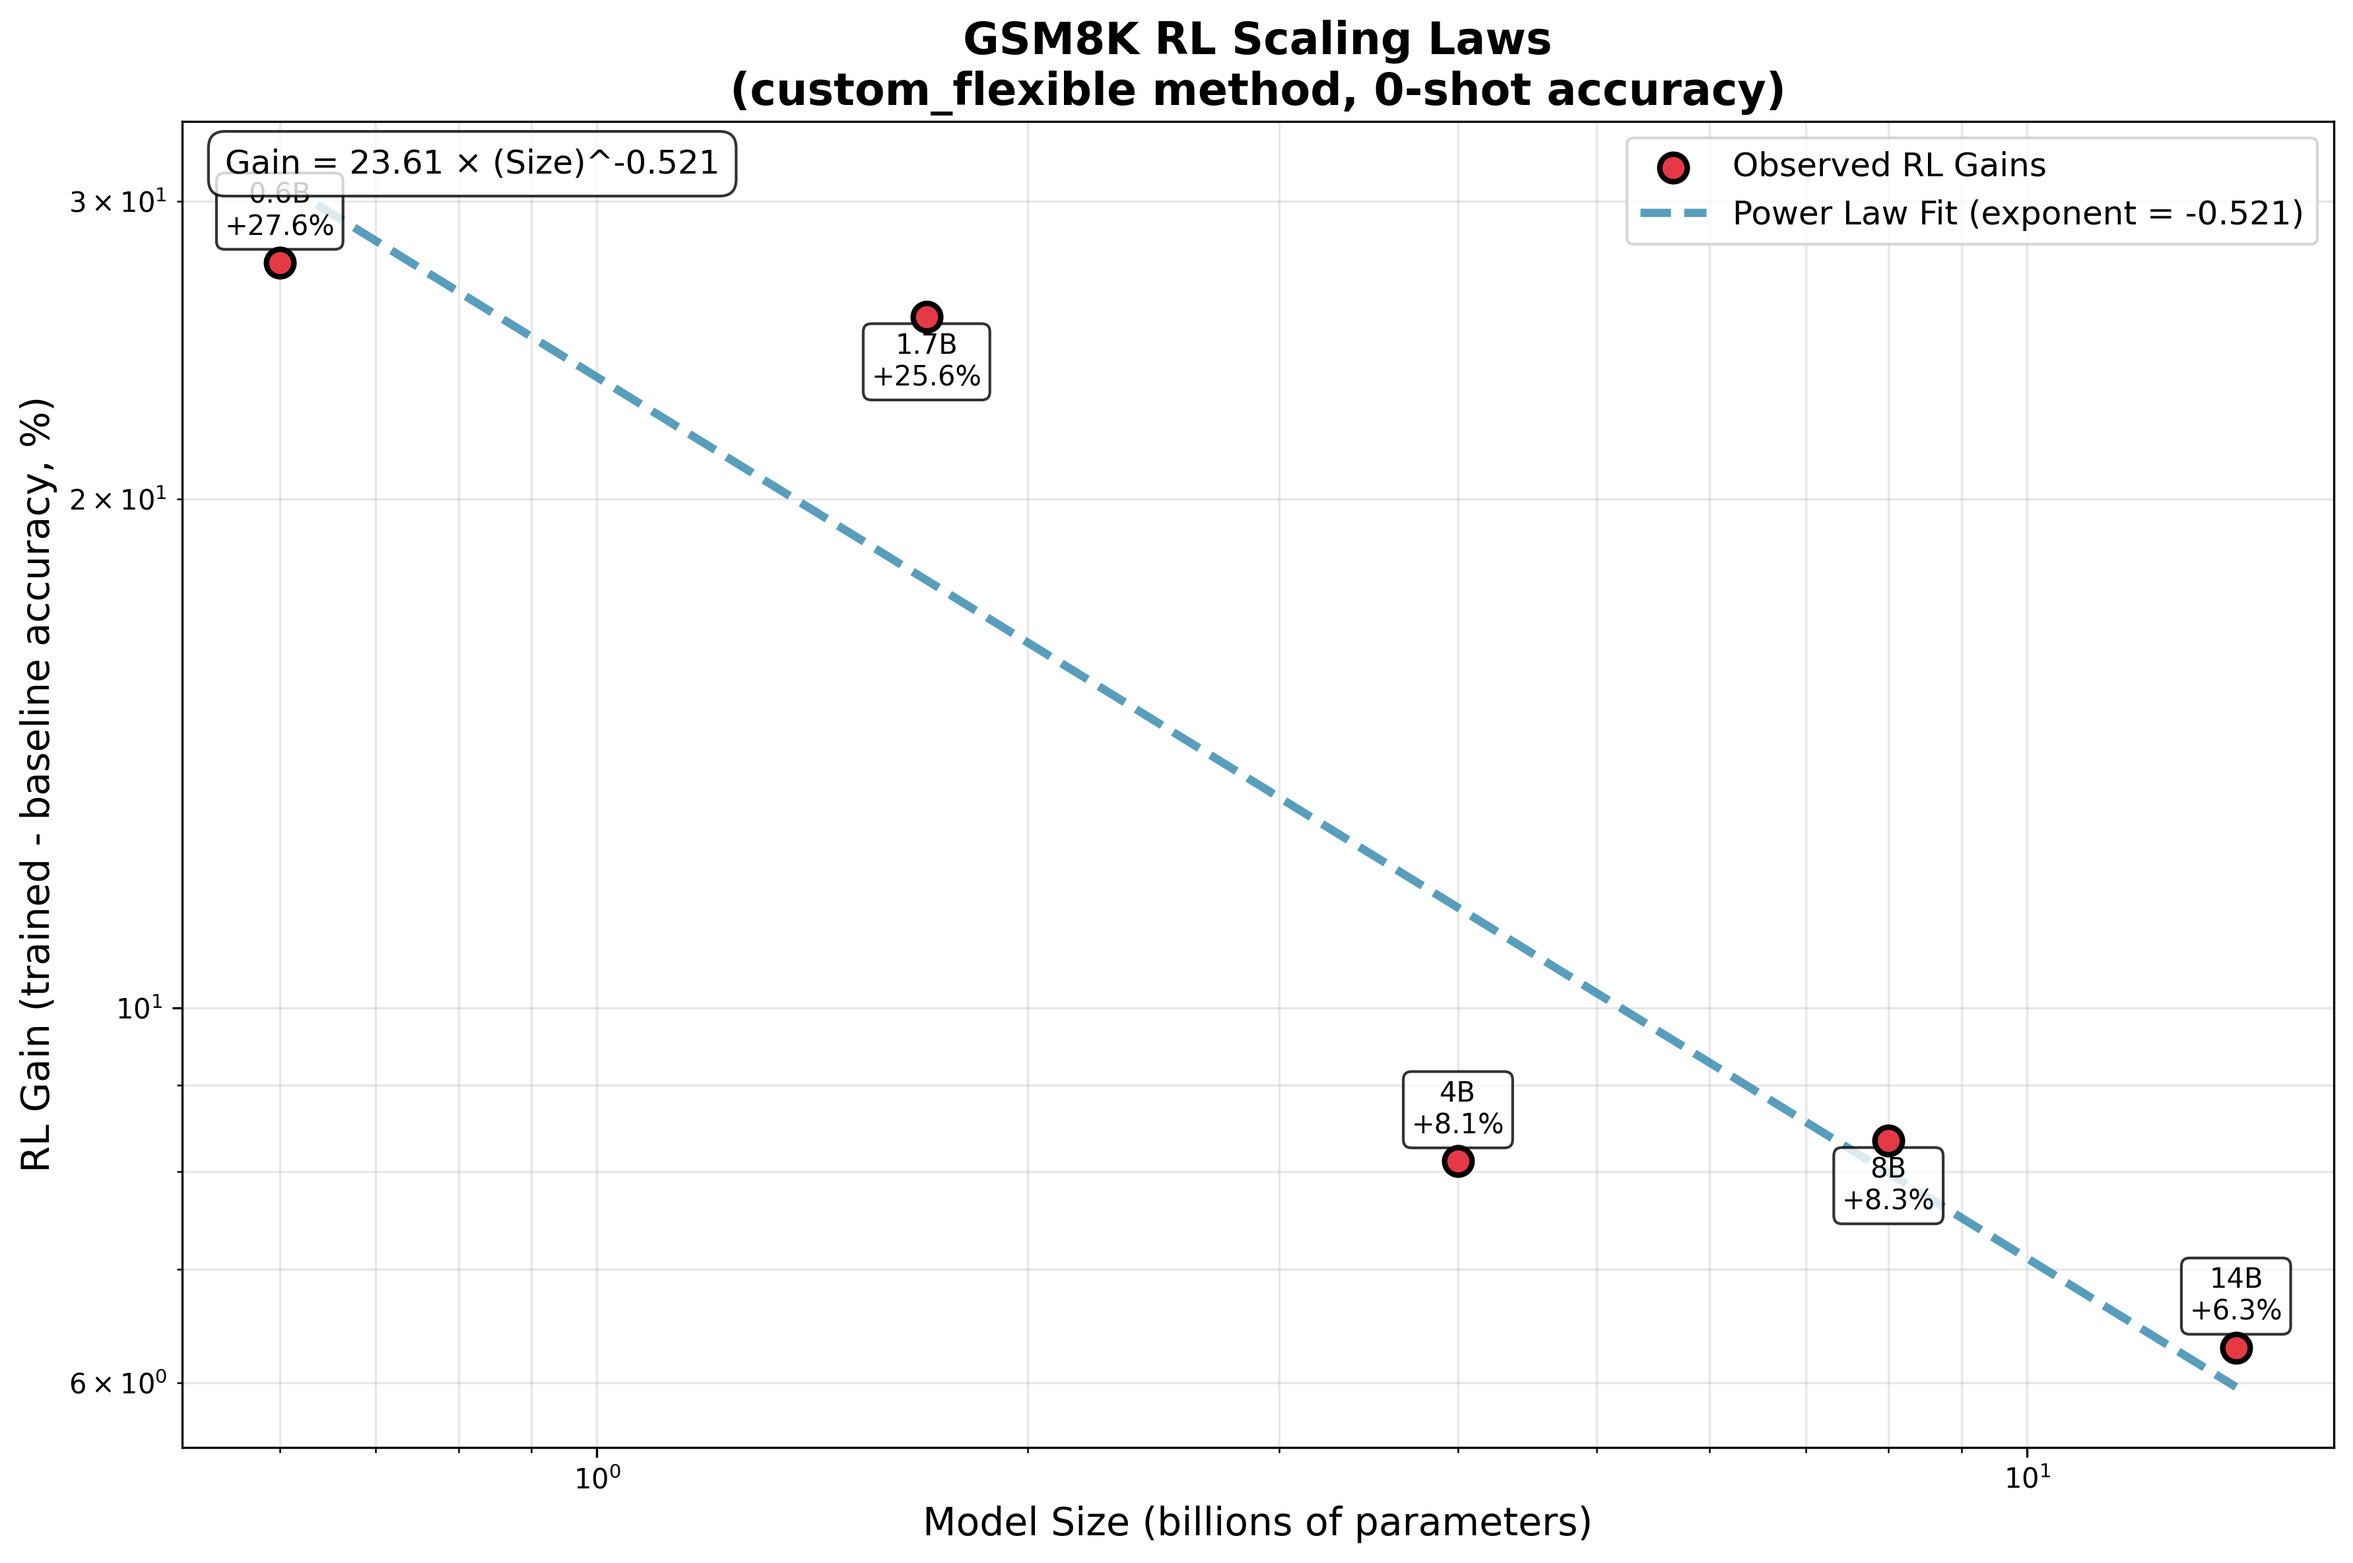
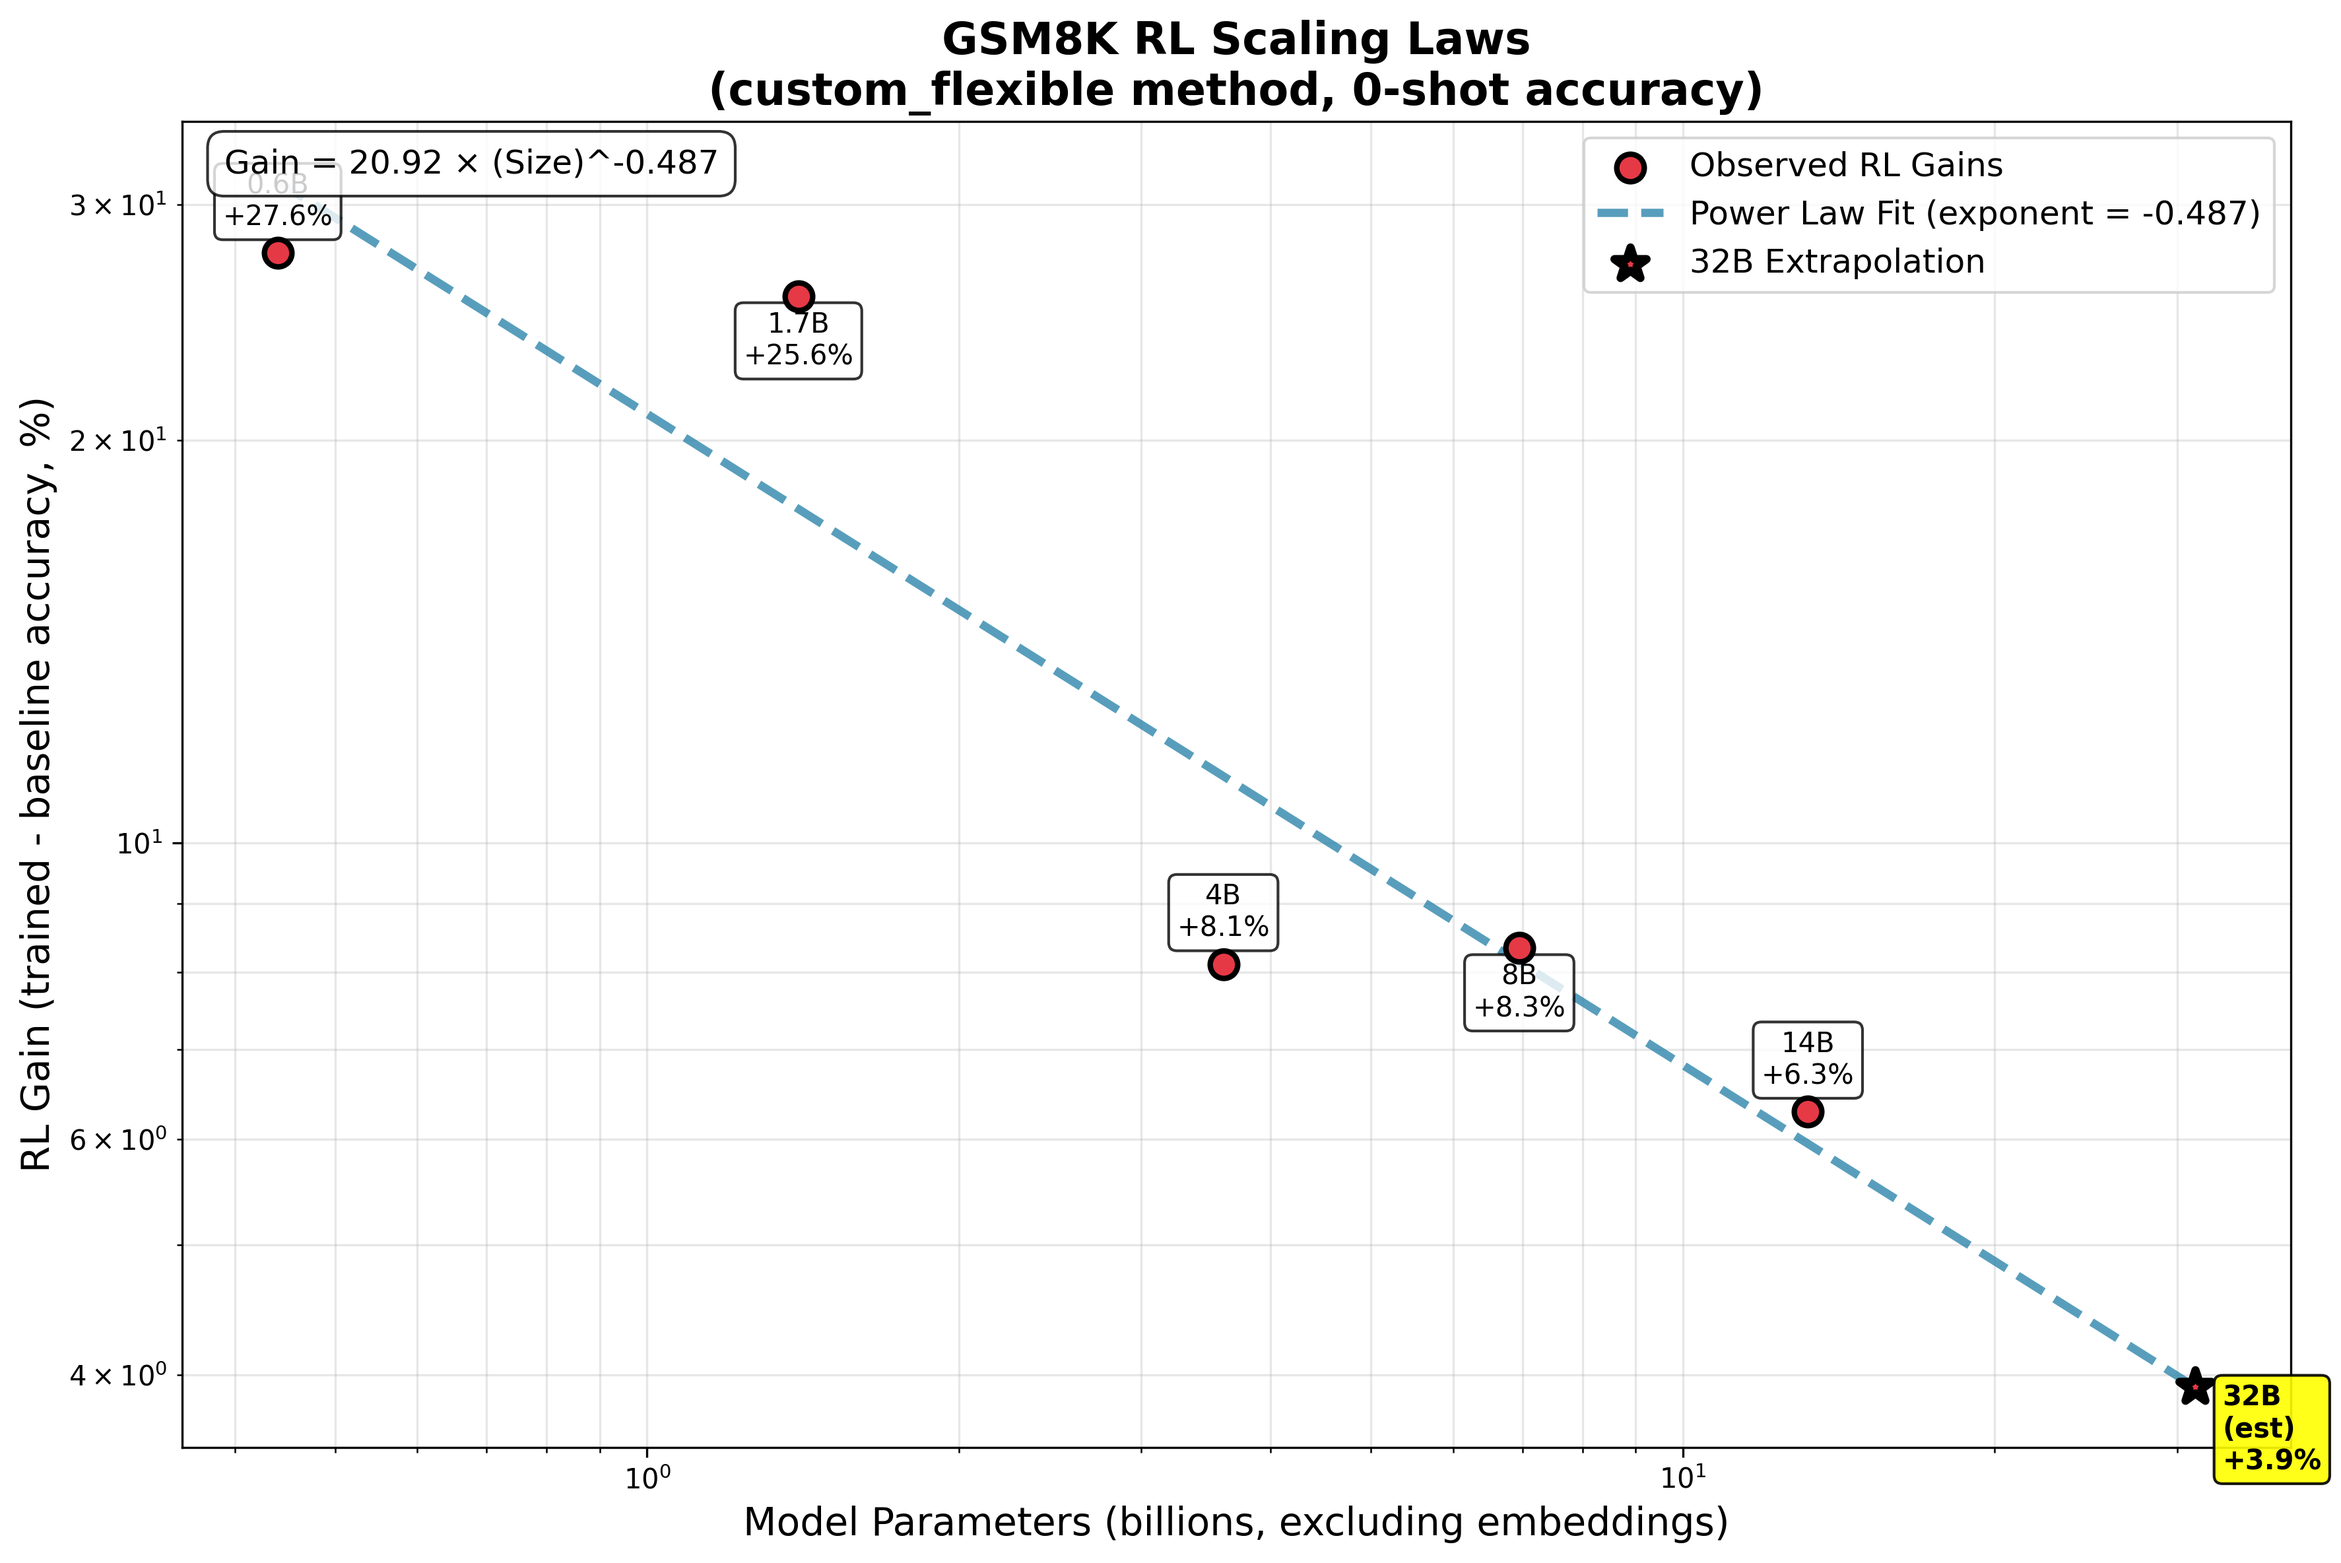
fixes to scaling laws plots

diff --git a/eval/run.py b/eval/run.py
@@ -269,7 +269,7 @@ def _default_models():
         # "Qwen/Qwen3-1.7B-base",
         # "Qwen/Qwen3-4B-base",
         # "Qwen/Qwen3-8B-base",
-        # "Qwen/Qwen3-14B-base",
+        "Qwen/Qwen3-14B-base",
     ]
 
 
@@ -414,7 +414,7 @@ def main():
         grpo_only=False,
         last_checkpoint_only=True,
         additional_models=[
-            "josancamon/qwen3-8b-grpo-lr1e-6-bs512-flexible",
+            # "josancamon/qwen3-8b-grpo-lr1e-6-bs512-flexible",
             # "josancamon/qwen3-14b-grpo-lr1e-6-bs512-flexible",
         ],
     )
@@ -510,36 +510,36 @@ def main():
                         print(f"Error in MMLU evaluation for {k}-shot: {e}")
 
                 # GSM8K
-                try:
-                    gsm_res = run_gsm8k_evaluation(
-                        model_id,
-                        split="test",
-                        num_shots=k,
-                        temperature=args.temperature,
-                        revision=revision,
-                        llm=llm,
-                    )
-                    model_result["benchmarks"]["gsm8k"]["by_shot"][str(k)] = {
-                        "accuracy": gsm_res.get("accuracy"),
-                        "correct": gsm_res.get("correct"),
-                        "total": gsm_res.get("total"),
-                    }
+                # try:
+                #     gsm_res = run_gsm8k_evaluation(
+                #         model_id,
+                #         split="test",
+                #         num_shots=k,
+                #         temperature=args.temperature,
+                #         revision=revision,
+                #         llm=llm,
+                #     )
+                #     model_result["benchmarks"]["gsm8k"]["by_shot"][str(k)] = {
+                #         "accuracy": gsm_res.get("accuracy"),
+                #         "correct": gsm_res.get("correct"),
+                #         "total": gsm_res.get("total"),
+                #     }
 
-                    # Save samples if requested
-                    if args.keep_samples and "prompts" in gsm_res:
-                        _save_gsm8k_samples(
-                            model_name=model_name,
-                            num_shots=k,
-                            prompts=gsm_res["prompts"],
-                            ground_truths=gsm_res["ground_truths"],
-                            responses=gsm_res["responses"],
-                        )
+                #     # Save samples if requested
+                #     if args.keep_samples and "prompts" in gsm_res:
+                #         _save_gsm8k_samples(
+                #             model_name=model_name,
+                #             num_shots=k,
+                #             prompts=gsm_res["prompts"],
+                #             ground_truths=gsm_res["ground_truths"],
+                #             responses=gsm_res["responses"],
+                #         )
 
-                except Exception as e:
-                    model_result["benchmarks"]["gsm8k"]["by_shot"][str(k)] = {
-                        "error": str(e)
-                    }
-                    print(f"Error in GSM8K evaluation for {k}-shot: {e}")
+                # except Exception as e:
+                #     model_result["benchmarks"]["gsm8k"]["by_shot"][str(k)] = {
+                #         "error": str(e)
+                #     }
+                #     print(f"Error in GSM8K evaluation for {k}-shot: {e}")
 
                 # MATH (only supports 0-shot)
                 if args.include_math and k == 0:

diff --git a/analysis/gsm8k_scaling_laws.py b/analysis/gsm8k_scaling_laws.py
@@ -83,7 +83,8 @@ def plot_scaling_laws():
 
     # Prepare data for plotting
     sizes = ["0.6b", "1.7b", "4b", "8b", "14b"]
-    size_values = [0.6, 1.7, 4.0, 8.0, 14.0]  # Convert to billions
+    # Actual parameter counts (excluding embeddings)
+    size_values = [0.44, 1.4, 3.6, 6.95, 13.2]  # billions of parameters
     gains = []
 
     print("\nCalculating RL gains:")
@@ -131,15 +132,21 @@ def plot_scaling_laws():
 
         print(f"    Power law: Gain = {a_fit:.3f} × (Model Size)^{b_fit:.3f}")
 
-        # Generate points for the fitted curve
-        x_fit = np.linspace(min(x_data), max(x_data), 100)
+        # Generate points for the fitted curve (extend to 32B = 31.2B params)
+        x_fit = np.linspace(min(x_data), 31.2, 100)
         y_fit = power_law(x_fit, a_fit, b_fit)
+
+        # Calculate 32B extrapolation
+        x_32b = 31.2  # 32B model = 31.2B parameters
+        y_32b = power_law(x_32b, a_fit, b_fit)
+        print(f"    32B extrapolation: Gain = {y_32b:.2f}%")
 
     except Exception as e:
         print(f"Power law fitting failed: {e}")
         print("Falling back to linear interpolation...")
         a_fit, b_fit = None, None
         x_fit, y_fit = None, None
+        x_32b, y_32b = None, None
 
     # Create the plot
     plt.figure(figsize=(12, 8))
@@ -168,6 +175,29 @@ def plot_scaling_laws():
             alpha=0.8,
         )
 
+        # Add 32B extrapolation point
+        plt.scatter(
+            [x_32b],
+            [y_32b],
+            color="#E63946",
+            s=150,
+            marker="*",
+            edgecolors="black",
+            linewidth=3,
+            zorder=10,
+            label="32B Extrapolation",
+        )
+        plt.annotate(
+            f"32B\n(est)\n+{y_32b:.1f}%",
+            (x_32b, y_32b),
+            xytext=(10, -30),
+            textcoords="offset points",
+            ha="left",
+            fontsize=10,
+            fontweight="bold",
+            bbox=dict(boxstyle="round,pad=0.3", facecolor="yellow", alpha=0.9),
+        )
+
     # Add labels for each point
     for i, (size, x_val, gain) in enumerate(zip(valid_sizes, x_data, y_data)):
         plt.annotate(
@@ -185,7 +215,7 @@ def plot_scaling_laws():
     plt.yscale("log")
 
     # Customize the plot
-    plt.xlabel("Model Size (billions of parameters)", fontsize=14)
+    plt.xlabel("Model Parameters (billions, excluding embeddings)", fontsize=14)
     plt.ylabel("RL Gain (trained - baseline accuracy, %)", fontsize=14)
     plt.title(
         "GSM8K RL Scaling Laws\n(custom_flexible method, 0-shot accuracy)",
